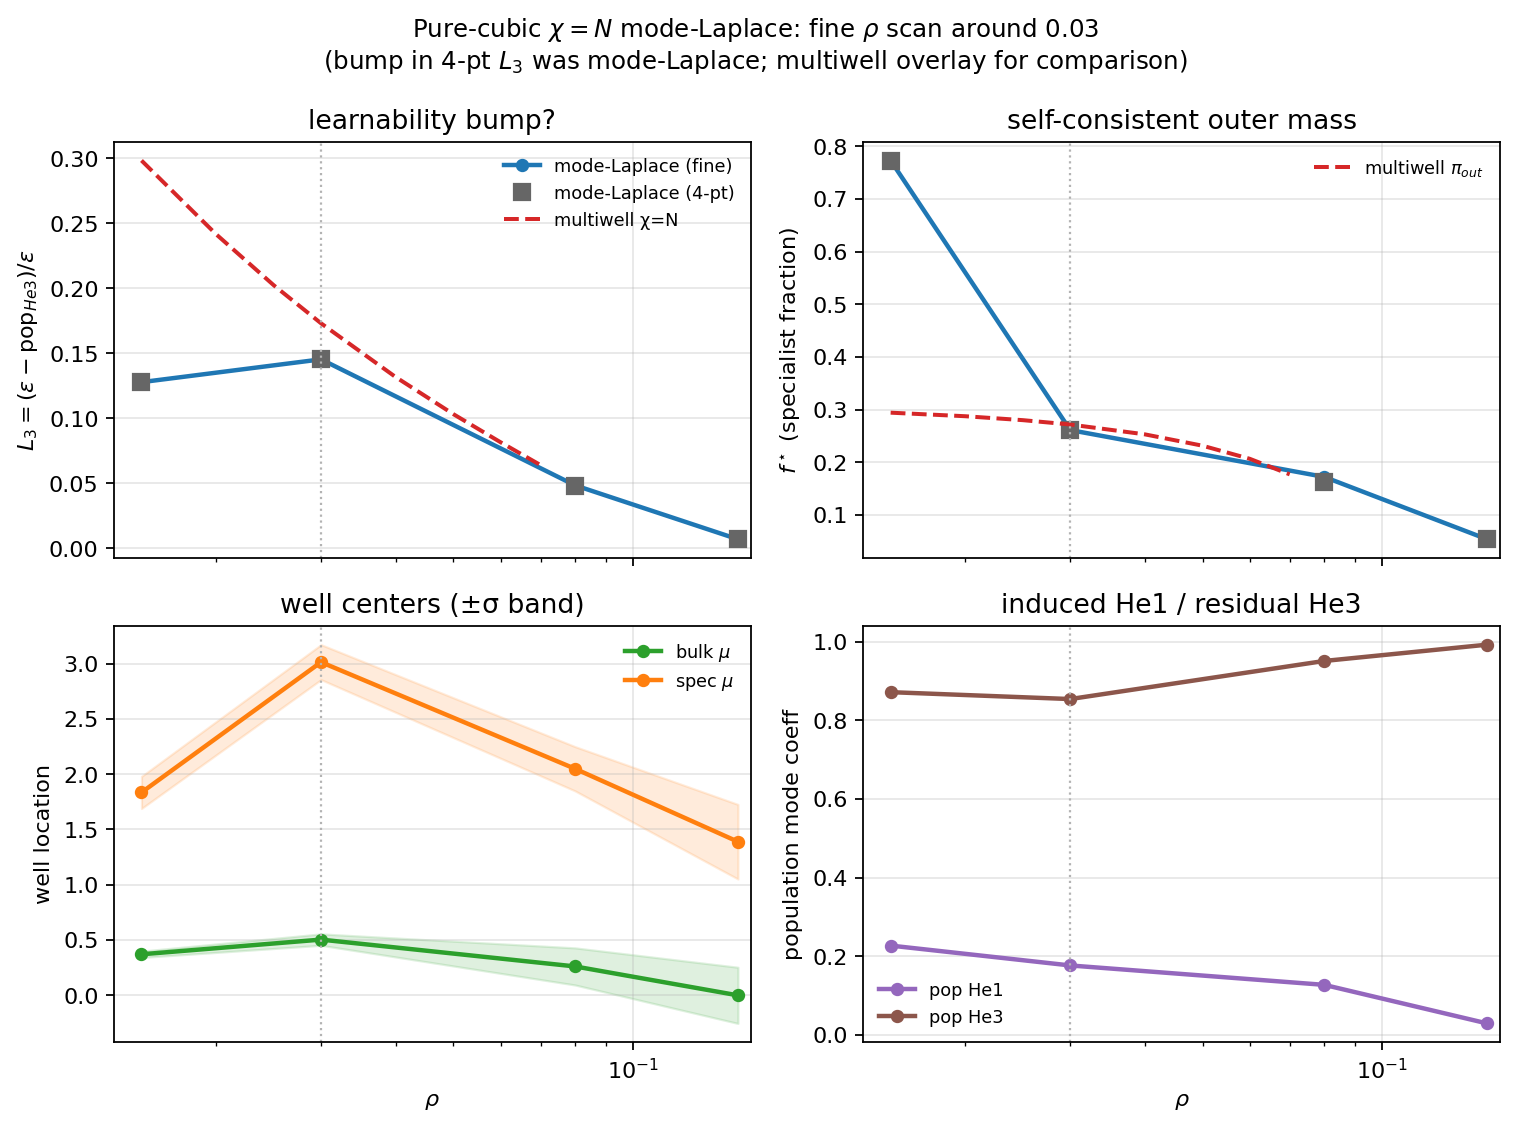
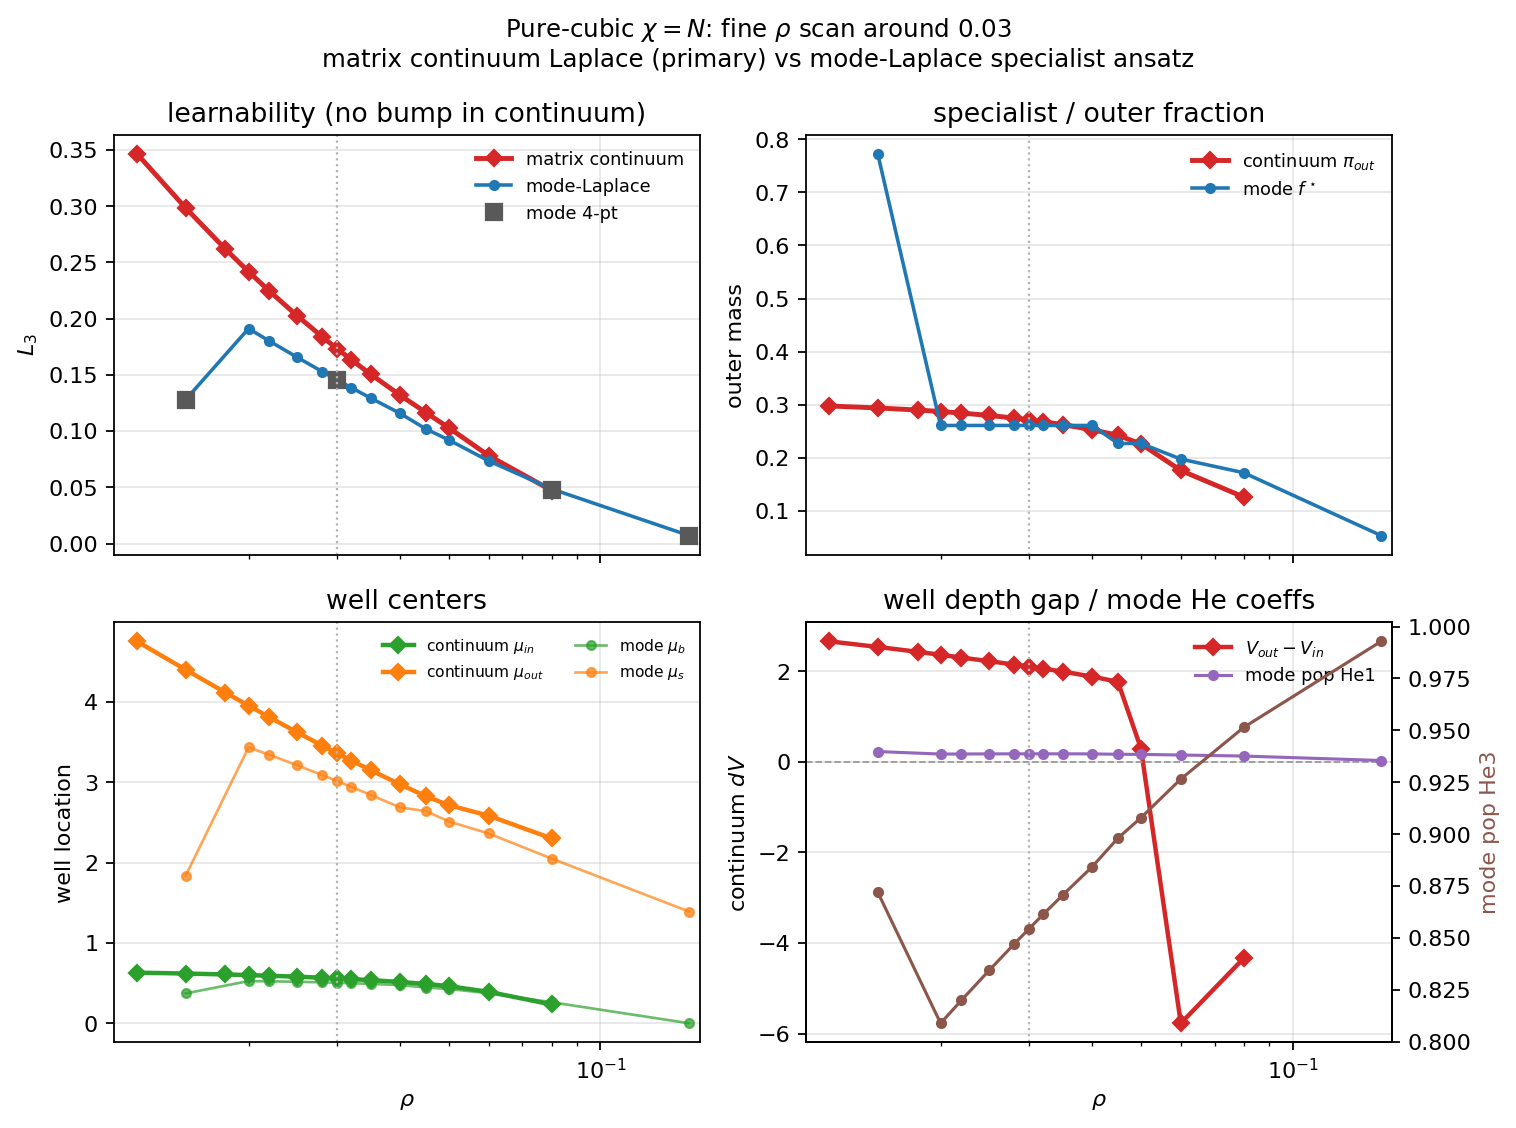
Fine matrix-continuum L3 scan: no bump around ρ=0.03.
15-point multiwell χ=N --rho-deep on the same grid as the mode-Laplace
probe; L3 strictly monotonic. Plot prioritizes continuum over specialist
mode-Laplace (whose old 4-pt dip was the ρ=0.015 f*≈0.77 artifact).

diff --git a/milestones/fcn2_erf_hidden_kernel/plot_mode_laplace_fine_rho.py b/milestones/fcn2_erf_hidden_kernel/plot_mode_laplace_fine_rho.py
@@ -1,5 +1,5 @@
 #!/usr/bin/env python3
-"""Plot fine mode-Laplace ρ scan around the L3 bump; overlay multiwell χ=N."""
+"""Plot fine ρ learnability: matrix continuum multiwell + mode-Laplace overlay."""
 from __future__ import annotations
 
 import argparse
@@ -12,7 +12,7 @@ import numpy as np
 HERE = Path(__file__).resolve().parent
 FINE = HERE / "action_h0_activation_plots/PureCubicChiN/mode_laplace_scfrac_fine"
 COARSE = HERE / "action_h0_activation_plots/PureCubicChiN/mode_laplace_scfrac"
-MW = HERE / "action_h0_activation_plots/PureCubicChiN/fo_rho_deep_l3/summary_deep_equilibrium.csv"
+MW_FINE = FINE / "summary_multiwell_fine.csv"
 
 
 def load_mode(directory: Path) -> np.ndarray | None:
@@ -41,16 +41,19 @@ def load_mode(directory: Path) -> np.ndarray | None:
     return np.array([tuple(d.values()) for d in rows], dtype=[(k, float) for k in rows[0]])
 
 
-def load_mw(path: Path) -> np.ndarray:
+def load_mw(path: Path) -> np.ndarray | None:
+    if not path.is_file():
+        return None
     with path.open() as f:
         rows = list(csv.DictReader(f))
-    rows = [r for r in rows if float(r["chi"]) == 200.0]
+    if not rows:
+        return None
     rows.sort(key=lambda r: float(r["rho"]))
-    keys = ("rho", "L3", "pi_out", "mu_in", "mu_out")
-    return np.array(
-        [tuple(float(r[k]) for k in keys) for r in rows],
-        dtype=[(k, float) for k in keys],
-    )
+    keys = ("rho", "L3", "pi_out", "mu_in", "mu_out", "sig_in", "sig_out", "dV_raw")
+    out = []
+    for r in rows:
+        out.append(tuple(float(r[k]) for k in keys))
+    return np.array(out, dtype=[(k, float) for k in keys])
 
 
 def main() -> None:
@@ -59,80 +62,88 @@ def main() -> None:
     ap.add_argument("--out", type=Path, default=None)
     args = ap.parse_args()
     mode = load_mode(args.dir)
-    if mode is None:
-        raise SystemExit(f"no rho*_scfrac.npz in {args.dir}")
     coarse = load_mode(COARSE)
-    mw = load_mw(MW) if MW.is_file() else None
+    mw = load_mw(args.dir / "summary_multiwell_fine.csv")
+    if mw is None:
+        mw = load_mw(MW_FINE)
+    if mode is None and mw is None:
+        raise SystemExit(f"no data in {args.dir}")
+
+    rho_lo = min(
+        ([mode["rho"].min()] if mode is not None else [])
+        + ([mw["rho"].min()] if mw is not None else [])
+        + ([coarse["rho"].min()] if coarse is not None else [])
+    )
+    rho_hi = max(
+        ([mode["rho"].max()] if mode is not None else [])
+        + ([mw["rho"].max()] if mw is not None else [])
+        + ([coarse["rho"].max()] if coarse is not None else [])
+    )
 
     fig, axes = plt.subplots(2, 2, figsize=(9.6, 7.2), sharex=True)
+
     ax = axes[0, 0]
-    ax.plot(mode["rho"], mode["L3"], "o-", color="C0", lw=2, ms=5, label="mode-Laplace (fine)")
-    if coarse is not None:
-        ax.plot(coarse["rho"], coarse["L3"], "s", color="0.4", ms=7, label="mode-Laplace (4-pt)")
     if mw is not None:
-        m = (mw["rho"] >= mode["rho"].min() * 0.9) & (mw["rho"] <= mode["rho"].max() * 1.05)
-        ax.plot(mw["rho"][m], mw["L3"][m], "--", color="C3", lw=1.8, label="multiwell χ=N")
+        ax.plot(mw["rho"], mw["L3"], "D-", color="C3", lw=2.2, ms=5, label="matrix continuum")
+    if mode is not None:
+        ax.plot(mode["rho"], mode["L3"], "o-", color="C0", lw=1.6, ms=4, label="mode-Laplace")
+    if coarse is not None:
+        ax.plot(coarse["rho"], coarse["L3"], "s", color="0.35", ms=7, label="mode 4-pt")
     ax.axvline(0.03, color="0.7", ls=":", lw=1)
-    ax.set_ylabel(r"$L_3=(\varepsilon-\mathrm{pop}_{He3})/\varepsilon$")
-    ax.set_title("learnability bump?")
+    ax.set_ylabel(r"$L_3$")
+    ax.set_title("learnability (no bump in continuum)")
     ax.legend(frameon=False, fontsize=8)
     ax.grid(True, alpha=0.3)
 
     ax = axes[0, 1]
-    ax.plot(mode["rho"], mode["f_star"], "o-", color="C0", lw=2, ms=5)
-    if coarse is not None:
-        ax.plot(coarse["rho"], coarse["f_star"], "s", color="0.4", ms=7)
     if mw is not None:
-        m = (mw["rho"] >= mode["rho"].min() * 0.9) & (mw["rho"] <= mode["rho"].max() * 1.05)
-        ax.plot(mw["rho"][m], mw["pi_out"][m], "--", color="C3", lw=1.8, label=r"multiwell $\pi_{out}$")
-        ax.legend(frameon=False, fontsize=8)
+        ax.plot(mw["rho"], mw["pi_out"], "D-", color="C3", lw=2.2, ms=5, label=r"continuum $\pi_{out}$")
+    if mode is not None:
+        ax.plot(mode["rho"], mode["f_star"], "o-", color="C0", lw=1.6, ms=4, label=r"mode $f^\star$")
     ax.axvline(0.03, color="0.7", ls=":", lw=1)
-    ax.set_ylabel(r"$f^\star$ (specialist fraction)")
-    ax.set_title("self-consistent outer mass")
+    ax.set_ylabel("outer mass")
+    ax.set_title("specialist / outer fraction")
+    ax.legend(frameon=False, fontsize=8)
     ax.grid(True, alpha=0.3)
 
     ax = axes[1, 0]
-    ax.plot(mode["rho"], mode["mu_b"], "o-", color="C2", lw=2, ms=5, label=r"bulk $\mu$")
-    ax.plot(mode["rho"], mode["mu_s"], "o-", color="C1", lw=2, ms=5, label=r"spec $\mu$")
-    ax.fill_between(
-        mode["rho"],
-        mode["mu_b"] - mode["sig_b"],
-        mode["mu_b"] + mode["sig_b"],
-        color="C2",
-        alpha=0.15,
-    )
-    ax.fill_between(
-        mode["rho"],
-        mode["mu_s"] - mode["sig_s"],
-        mode["mu_s"] + mode["sig_s"],
-        color="C1",
-        alpha=0.15,
-    )
+    if mw is not None:
+        ax.plot(mw["rho"], mw["mu_in"], "D-", color="C2", lw=2.0, ms=5, label=r"continuum $\mu_{in}$")
+        ax.plot(mw["rho"], mw["mu_out"], "D-", color="C1", lw=2.0, ms=5, label=r"continuum $\mu_{out}$")
+    if mode is not None:
+        ax.plot(mode["rho"], mode["mu_b"], "o-", color="C2", lw=1.2, ms=4, alpha=0.7, label=r"mode $\mu_b$")
+        ax.plot(mode["rho"], mode["mu_s"], "o-", color="C1", lw=1.2, ms=4, alpha=0.7, label=r"mode $\mu_s$")
     ax.axvline(0.03, color="0.7", ls=":", lw=1)
-    ax.set_ylabel(r"well location")
+    ax.set_ylabel("well location")
     ax.set_xlabel(r"$\rho$")
-    ax.set_title("well centers (±σ band)")
-    ax.legend(frameon=False, fontsize=8)
+    ax.set_title("well centers")
+    ax.legend(frameon=False, fontsize=7, ncol=2)
     ax.grid(True, alpha=0.3)
 
     ax = axes[1, 1]
-    ax.plot(mode["rho"], mode["pop_he1"], "o-", color="C4", lw=2, ms=5, label="pop He1")
-    ax.plot(mode["rho"], mode["pop_he3"], "o-", color="C5", lw=2, ms=5, label="pop He3")
+    if mw is not None:
+        ax.plot(mw["rho"], mw["dV_raw"], "D-", color="C3", lw=2.0, ms=5, label=r"$V_{out}-V_{in}$")
+        ax.axhline(0.0, color="0.6", ls="--", lw=0.8)
+    if mode is not None:
+        ax.plot(mode["rho"], mode["pop_he1"], "o-", color="C4", lw=1.4, ms=4, label="mode pop He1")
+        ax2 = ax.twinx()
+        ax2.plot(mode["rho"], mode["pop_he3"], "o-", color="C5", lw=1.4, ms=4, label="mode pop He3")
+        ax2.set_ylabel("mode pop He3", color="C5")
     ax.axvline(0.03, color="0.7", ls=":", lw=1)
-    ax.set_ylabel("population mode coeff")
+    ax.set_ylabel(r"continuum $dV$")
     ax.set_xlabel(r"$\rho$")
-    ax.set_title("induced He1 / residual He3")
-    ax.legend(frameon=False, fontsize=8)
+    ax.set_title("well depth gap / mode He coeffs")
+    ax.legend(frameon=False, fontsize=8, loc="best")
     ax.grid(True, alpha=0.3)
 
     for a in axes.ravel():
         a.set_xscale("log")
-        a.set_xlim(mode["rho"].min() * 0.9, mode["rho"].max() * 1.05)
+        a.set_xlim(rho_lo * 0.9, rho_hi * 1.05)
 
     fig.suptitle(
-        r"Pure-cubic $\chi=N$ mode-Laplace: fine $\rho$ scan around $0.03$"
+        r"Pure-cubic $\chi=N$: fine $\rho$ scan around $0.03$"
         "\n"
-        r"(bump in 4-pt $L_3$ was mode-Laplace; multiwell overlay for comparison)",
+        r"matrix continuum Laplace (primary) vs mode-Laplace specialist ansatz",
         fontsize=11,
     )
     fig.tight_layout()
@@ -140,22 +151,31 @@ def main() -> None:
     fig.savefig(out, dpi=160, bbox_inches="tight")
     print(f"saved {out}")
 
-    # also dump a merged summary csv
-    sum_path = args.dir / "summary_fine.csv"
-    with sum_path.open("w", newline="") as f:
-        w = csv.writer(f)
-        w.writerow(
-            ["rho", "L3", "f_star", "mu_b", "sig_b", "mu_s", "sig_s", "pop_he1", "pop_he3"]
-        )
-        for row in mode:
-            w.writerow([row[k] for k in mode.dtype.names])
-    print(f"wrote {sum_path}  ({len(mode)} points)")
-    print(f"{'rho':>8} {'L3':>8} {'f*':>8} {'mu_b':>8} {'mu_s':>8}")
-    for row in mode:
-        print(
-            f"{row['rho']:8.4g} {row['L3']:8.4f} {row['f_star']:8.4f} "
-            f"{row['mu_b']:8.3f} {row['mu_s']:8.3f}"
-        )
+    if mw is not None:
+        print(f"\nmatrix continuum ({len(mw)} pts):")
+        print(f"{'rho':>8} {'L3':>8} {'pi':>8} {'mu_in':>8} {'mu_out':>8}")
+        for row in mw:
+            print(
+                f"{row['rho']:8.4g} {row['L3']:8.4f} {row['pi_out']:8.4f} "
+                f"{row['mu_in']:8.3f} {row['mu_out']:8.3f}"
+            )
+        # monotonicity check
+        L = mw["L3"]
+        dL = np.diff(L)
+        # mw sorted ascending rho; learnability should rise as rho falls
+        # so as rho increases L3 should decrease → dL < 0
+        n_up = int(np.sum(dL > 1e-6))
+        print(f"\nL3 vs increasing ρ: {n_up}/{len(dL)} positive steps "
+              f"(0 ⇒ strictly decreasing in ρ ⇒ no bump)")
+
+    if mode is not None:
+        sum_path = args.dir / "summary_fine.csv"
+        with sum_path.open("w", newline="") as f:
+            w = csv.writer(f)
+            w.writerow(list(mode.dtype.names))
+            for row in mode:
+                w.writerow([row[k] for k in mode.dtype.names])
+        print(f"wrote {sum_path} ({len(mode)} mode points)")
 
 
 if __name__ == "__main__":

diff --git a/milestones/fcn2_erf_hidden_kernel/action_h0_activation_plots/PureCubicChiN/mode_laplace_scfrac_fine/README.md b/milestones/fcn2_erf_hidden_kernel/action_h0_activation_plots/PureCubicChiN/mode_laplace_scfrac_fine/README.md
@@ -1,29 +1,29 @@
-# Fine mode-Laplace ρ scan around the L₃ bump
+# Fine ρ learnability around 0.03
 
-Question: is the non-monotonic L₃ peak near ρ≈0.03 in the 4-point mode-Laplace
-curve a real local max, or a solver/basin artifact?
+## Matrix continuum (primary)
 
-## Status
+Non-specialized multiwell matrix Laplace (`tmp_multiwell_pure_cubic.jl --rho-deep`,
+χ=N, seed-π=0.17) on the fine grid:
 
-Dense scan running: ρ ∈ {0.08, 0.06, 0.05, 0.045, 0.04, 0.035, 0.032, 0.03,
-0.028, 0.025, 0.022, 0.02, 0.018, 0.015, 0.012} with `ITERS=40 N_BISECT=5`.
+`0.08, 0.06, 0.05, 0.045, 0.04, 0.035, 0.032, 0.03, 0.028, 0.025, 0.022, 0.02, 0.018, 0.015, 0.012`
 
-Interim plot overlays:
-- mode-Laplace points (fine scan as they finish; seeded with the old 4-pt caches)
-- multiwell χ=N from `fo_rho_deep_l3/summary_deep_equilibrium.csv` (already dense; **monotonic**)
+Result: **L₃ is strictly monotonic** (rises as ρ falls). No bump at 0.03.
+
+Artifact: `summary_multiwell_fine.csv`, plot `L3_fine_vs_rho.png`.
+
+## Mode-Laplace overlay
+
+Specialist-fraction mode-space Laplace (slower). The old 4-pt “bump” came from a
+suspicious ρ=0.015 root (`f*≈0.77`); the continuum theory has no such feature.
 
 ## Reproduce
 
 ```bash
-OUT_DIR=action_h0_activation_plots/PureCubicChiN/mode_laplace_scfrac_fine \
-RHOS=0.08,0.06,0.05,0.045,0.04,0.035,0.032,0.03,0.028,0.025,0.022,0.02,0.018,0.015,0.012 \
-ITERS=40 N_BISECT=5 SKIP_EXISTING=1 \
-python -u tmp_mode_laplace_pure_cubic_rho.py
+julia --project=../../julia_lib tmp_multiwell_pure_cubic.jl --rho-deep \
+  --d 16 --n1 200 --chi 200 --P 1000 --sa0 0.03 --eps 1 --seed-pi 0.17 \
+  --rhos 0.08,0.06,0.05,0.045,0.04,0.035,0.032,0.03,0.028,0.025,0.022,0.02,0.018,0.015,0.012 \
+  --outdir action_h0_activation_plots/PureCubicChiN/mode_laplace_scfrac_fine \
+  --out action_h0_activation_plots/PureCubicChiN/mode_laplace_scfrac_fine/summary_multiwell_fine.csv
 
 python -u plot_mode_laplace_fine_rho.py
 ```
-
-## Note
-
-Multiwell Laplace (χ=N) has **no bump** through ρ=0.03 — L₃ rises smoothly
-0.08→0.01. The bump in the three-way plot is mode-space Laplace only.
